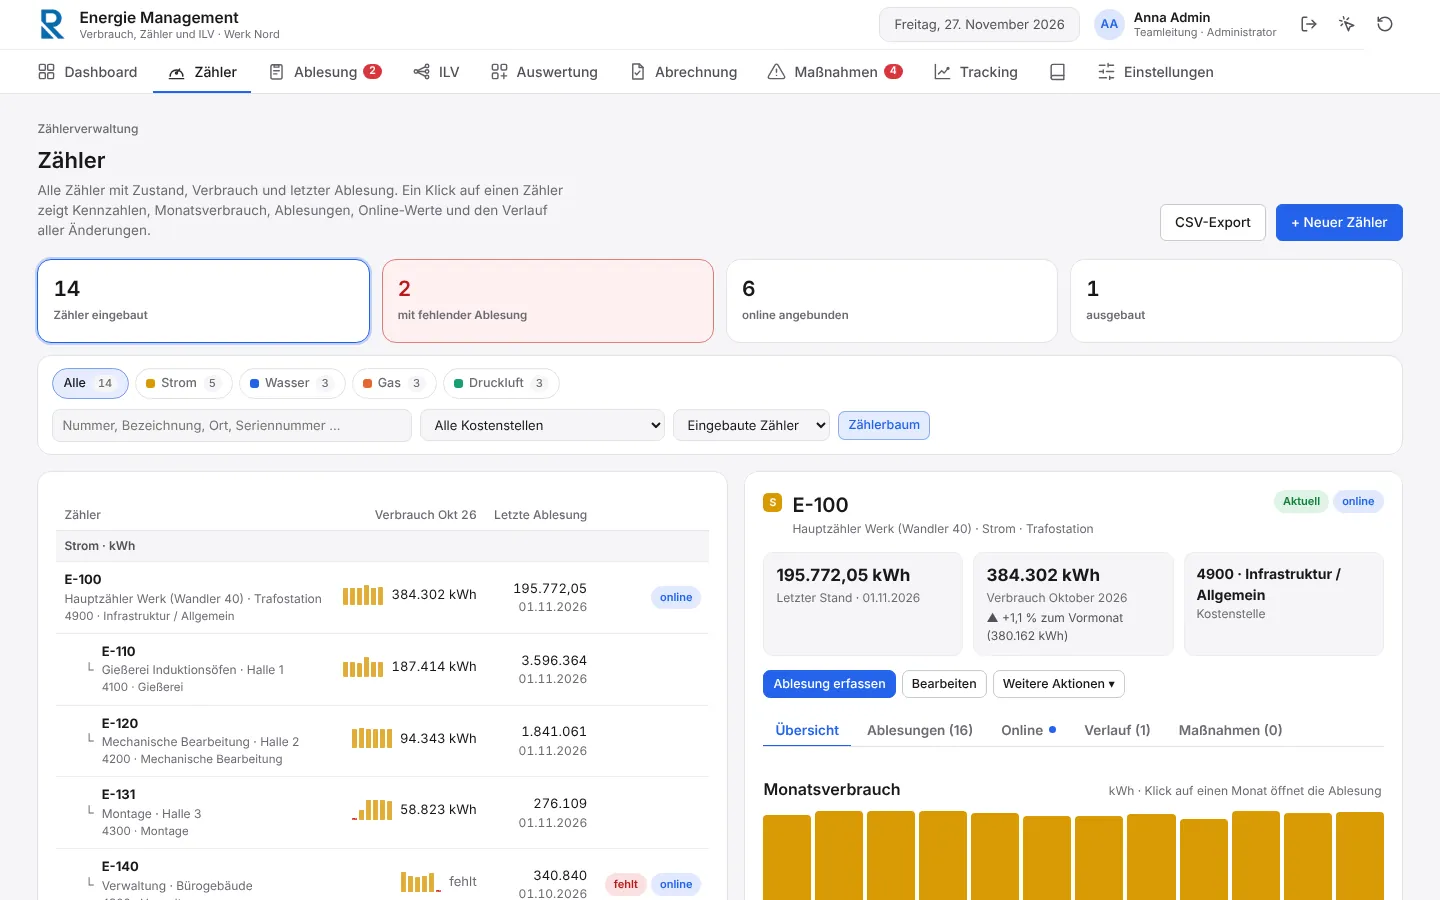
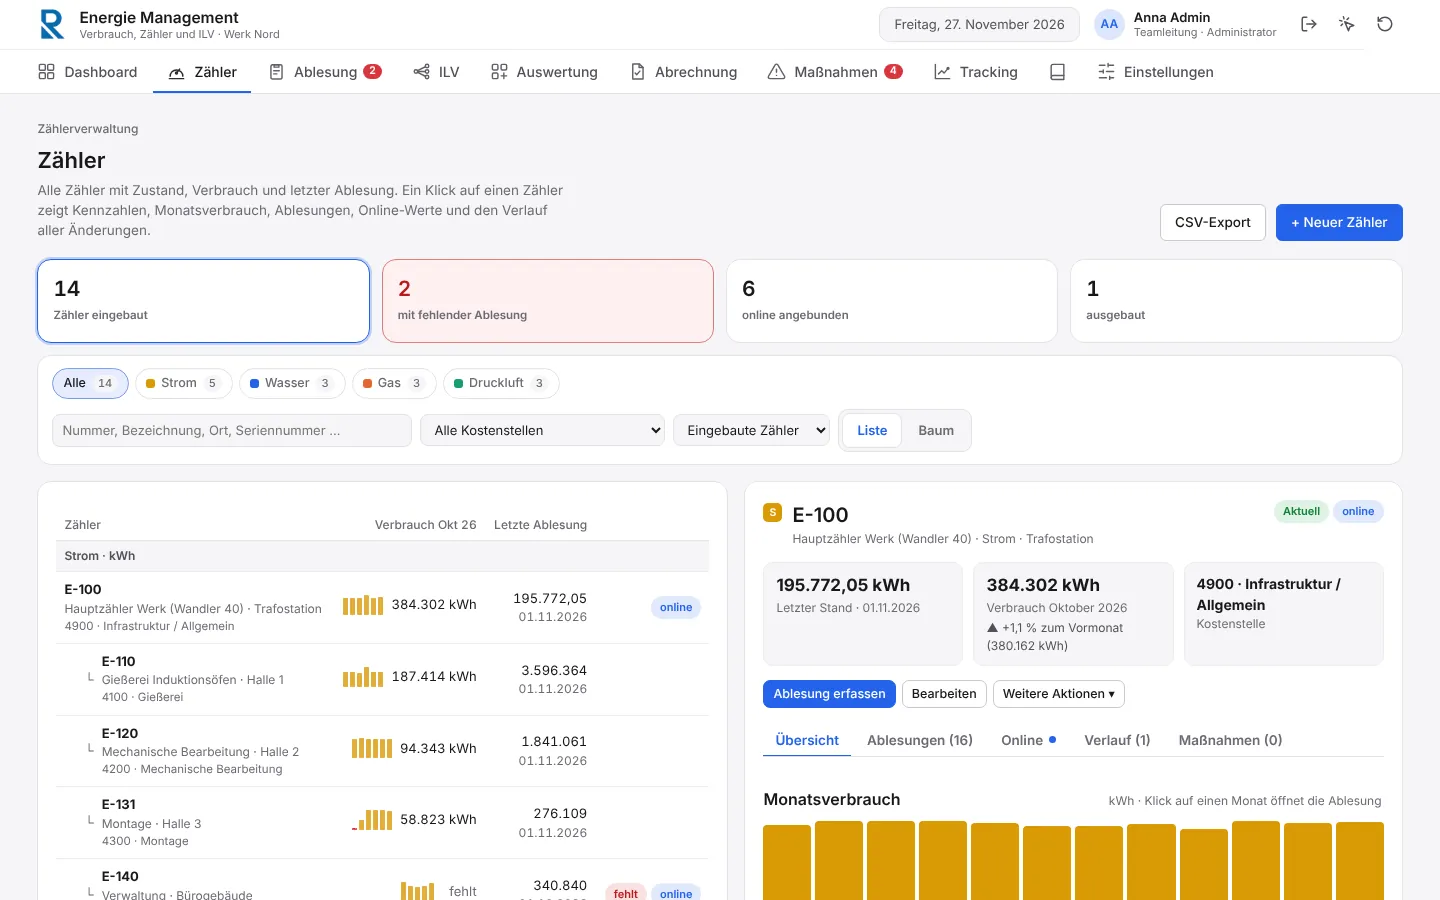
Zählerseite: Darstellung als aufklappbarer Zählerbaum mit Rest, Bearbeiten und „+ Unterzähler“ am Knoten
Claude-Session: https://claude.ai/code/session_01VLWA3jNBDZhyfKfbfyKqi7

diff --git a/frontend/index.html b/frontend/index.html
@@ -2126,6 +2126,43 @@ tr.ci-err td { color: var(--crit-text); }
 .bl-table td:nth-child(2) { white-space: nowrap; }
 @media (max-width: 1000px) { .bl-grid { grid-template-columns: minmax(0, 1fr); } .bl-year { grid-template-columns: repeat(6, minmax(0, 1fr)); } }
 
+/* Zählerbaum */
+.mt-tree-bar { display: flex; gap: 6px; align-items: center; flex-wrap: wrap; margin-bottom: 8px; }
+.mt-tree-bar .mini-hint { margin-left: auto; }
+.mt-tree, .mt-tree ul { list-style: none; margin: 0; padding: 0; }
+.mt-type { margin-bottom: 10px; }
+.mt-type-head { display: flex; align-items: center; gap: 8px; width: 100%; background: var(--surface-2); border: 0; border-radius: 9px; padding: 7px 10px; font: inherit; color: var(--ink); cursor: pointer; text-align: left; }
+.mt-type-head .mini-hint { margin-left: auto; }
+.mt-toggle-txt { width: 14px; color: var(--muted); }
+.mt-children { position: relative; padding-left: 22px !important; }
+.mt-roots { padding-left: 10px !important; margin-top: 6px !important; }
+.mt-children > li { position: relative; }
+/* Verbindungslinien: senkrecht am Ast, waagrecht zum Knoten */
+.mt-children > li::before { content: ""; position: absolute; left: -12px; top: 0; bottom: 0; border-left: 1.5px solid var(--line); }
+.mt-children > li:last-child::before { bottom: auto; height: 22px; }
+.mt-children > li::after { content: ""; position: absolute; left: -12px; top: 22px; width: 12px; border-top: 1.5px solid var(--line); }
+.mt-roots > li::before, .mt-roots > li::after { display: none; }
+.mt-row { display: flex; align-items: center; gap: 6px; padding: 3px 0; }
+.mt-toggle { width: 24px; height: 24px; flex: none; border: 1px solid var(--line); border-radius: 6px; background: var(--surface); color: var(--ink-2); font-size: 11px; cursor: pointer; display: grid; place-items: center; padding: 0; }
+.mt-toggle.leaf { border-color: transparent; background: none; cursor: default; }
+.mt-toggle.leaf::after { content: ""; width: 6px; height: 6px; border-radius: 50%; background: var(--line); }
+.mt-card { flex: 1; min-width: 0; display: flex; align-items: center; gap: 10px; border: 1px solid var(--line-soft); border-radius: 10px; padding: 7px 10px; background: var(--surface); cursor: pointer; }
+.mt-card:hover { border-color: color-mix(in srgb, var(--accent) 45%, var(--line)); }
+.mt-card:focus-visible { outline: 2px solid var(--accent); outline-offset: 1px; }
+.mt-row.sel .mt-card { border-color: var(--accent); background: color-mix(in srgb, var(--accent) 7%, var(--surface)); }
+.mt-row.ctx .mt-card { opacity: .55; }
+.mt-txt { flex: 1; min-width: 0; }
+.mt-l1 { display: flex; gap: 8px; align-items: baseline; min-width: 0; }
+.mt-l1 b { white-space: nowrap; }
+.mt-txt .me-sub { white-space: nowrap; overflow: hidden; text-overflow: ellipsis; }
+.mt-name { color: var(--ink-2); font-size: 13px; white-space: nowrap; overflow: hidden; text-overflow: ellipsis; }
+.mt-val { text-align: right; white-space: nowrap; flex: none; }
+.mt-qty { font-weight: 600; font-size: 13.5px; }
+.mt-qty.miss { color: var(--crit-text); font-weight: 500; font-size: 12.5px; }
+.mt-acts { display: flex; gap: 4px; flex: none; }
+@media (hover: hover) { .mt-acts { display: none; } .mt-row:hover .mt-acts, .mt-row:focus-within .mt-acts, .mt-row.sel .mt-acts { display: flex; } .mt-row:hover .mt-val .me-sub, .mt-row.sel .mt-val .me-sub { display: none; } }
+@media (max-width: 700px) { .mt-val .me-sub { display: none; } .mt-acts .btn:last-child { display: none; } .mt-children { padding-left: 14px !important; } }
+
 /* Zähler */
 .me-chips .trk-chip:not(.on) > span { text-decoration: none !important; }
 .me-chips .trk-chip:not(.on) .trk-chip-dot { opacity: 1; }
@@ -2348,13 +2385,17 @@ details.wd-group { padding-bottom: 4px; }
         <option value="out">Ausgebaute Zähler</option>
         <option value="">Alle Zähler</option>
       </select>
-      <button class="btn sm" id="mtTreeBtn" aria-pressed="true" title="Unterzähler unter ihrem Hauptzähler einrücken">Zählerbaum</button>
+      <div class="period-seg" id="mtViewSeg" role="radiogroup" aria-label="Darstellung">
+        <button type="button" data-view="list">Liste</button>
+        <button type="button" data-view="tree">Baum</button>
+      </div>
       <button class="btn sm ghost" id="mtReset" type="button" hidden>Filter zurücksetzen</button>
     </div>
   </div>
   <div class="me-layout">
     <div class="card me-list-card">
-      <div class="trk-table-wrap"><table class="trk-table me-table" id="mtTable"></table></div>
+      <div class="trk-table-wrap" id="mtTableWrap"><table class="trk-table me-table" id="mtTable"></table></div>
+      <div class="mt-tree-host" id="mtTreeHost" hidden></div>
       <p class="mini-hint" id="mtCount"></p>
     </div>
     <div class="card me-detail" id="mtDetail"></div>
@@ -7176,6 +7217,15 @@ window.EN = (function () {
     var tbl = $("#mtTable"); tbl.innerHTML = "";
     $("#mtCount").textContent = shown.length + " von " + energy.meters.length + " Zählern" + (mtFlag || mtType || mtCc || terms.length ? " — Filter aktiv" : "");
     $("#mtReset").hidden = !(mtFlag || mtType || mtCc || terms.length || mtState !== "in");
+    document.querySelectorAll("#mtViewSeg button").forEach(function (b) { b.classList.toggle("active", b.dataset.view === mtView); b.setAttribute("aria-checked", b.dataset.view === mtView ? "true" : "false"); });
+    $("#mtTableWrap").hidden = mtView === "tree";
+    $("#mtTreeHost").hidden = mtView !== "tree";
+    if (mtView === "tree") {
+      renderMeterTree($("#mtTreeHost"), shown, !!(terms.length || mtFlag));
+      if (!shown.some(function (m) { return m.id === mtSel; })) mtSel = shown.length ? sortedMeters(shown)[0].id : null;
+      renderMeterDetail();
+      return;
+    }
     if (!rows.length) {
       tbl.appendChild(emptyRow(4, energy.meters.length ? "Kein Zähler passt zu den Filtern." : "Noch keine Zähler angelegt — mit „+ Neuer Zähler“ beginnen."));
     } else {
@@ -7244,13 +7294,6 @@ window.EN = (function () {
   $("#mtSearch").addEventListener("input", function () { mtSearch = this.value; renderMeters(); });
   $("#mtCc").addEventListener("change", function () { mtCc = this.value; renderMeters(); });
   $("#mtState").addEventListener("change", function () { mtState = this.value; mtFlag = ""; renderMeters(); });
-  $("#mtTreeBtn").addEventListener("click", function () {
-    mtTree = !mtTree;
-    this.classList.toggle("toggled", mtTree);
-    this.setAttribute("aria-pressed", mtTree ? "true" : "false");
-    renderMeters();
-  });
-  $("#mtTreeBtn").classList.add("toggled");
   // Menü „Weitere Aktionen“ schließt bei Klick daneben oder mit Esc
   document.addEventListener("click", function (e) {
     document.querySelectorAll(".me-more[open]").forEach(function (d) { if (!d.contains(e.target)) d.open = false; });
@@ -7263,6 +7306,141 @@ window.EN = (function () {
     $("#mtSearch").value = "";
     renderMeters();
   });
+
+  /* ---------- Zählerbaum: Haupt- und Unterzähler als aufklappbare Äste ----------
+     Je Energieart ein Stamm, darunter die Zähler mit Verbindungslinien. Ein Ast zeigt den Verbrauch des fälligen Monats,
+     beim Hauptzähler zusätzlich die Summe der Unterzähler und den Rest (Hauptzähler − Unterzähler = nicht einzeln gemessen).
+     Bearbeiten und „+ Unterzähler“ direkt am Knoten; ein Klick wählt den Zähler für das Detail rechts.
+     Aufgeklappte Äste merkt sich das Gerät (sfm-meter-tree). Bei Suche/Filtern werden die Hauptzähler der Treffer mit
+     angezeigt (blass), damit der Zusammenhang erhalten bleibt. */
+  var mtView = (function () { try { return LS.getItem("sfm-meter-view") === "tree" ? "tree" : "list"; } catch (e) { return "list"; } })();
+  var mtCollapsed = (function () { try { return JSON.parse(LS.getItem("sfm-meter-tree") || "{}") || {}; } catch (e) { return {}; } })();
+  function mtSaveTree() { try { LS.setItem("sfm-meter-tree", JSON.stringify(mtCollapsed)); } catch (e) {} }
+  function mtMonthVal(m) {
+    var x = meterMonthC(m.id, DUE_MONTH);
+    return x.status === "ok" || x.status === "partial" ? x : null;
+  }
+  function renderMeterTree(host, shown, filtered) {
+    host.innerHTML = "";
+    var byId = {}, kids = {};
+    energy.meters.forEach(function (m) { byId[m.id] = m; });
+    // sichtbare Menge: Treffer + deren Hauptzähler (für den Zusammenhang)
+    var vis = {}, hit = {};
+    shown.forEach(function (m) {
+      hit[m.id] = true;
+      for (var p = m, g = 0; p && g < 50; g++) { vis[p.id] = true; p = p.parent ? byId[p.parent] : null; }
+    });
+    Object.keys(vis).forEach(function (id) {
+      var m = byId[id], par = m.parent && vis[m.parent] ? m.parent : "";
+      (kids[par] = kids[par] || []).push(m);
+    });
+    var bar = el("div", "mt-tree-bar");
+    var bOpen = el("button", "btn sm ghost", "Alle aufklappen"), bClose = el("button", "btn sm ghost", "Alle zuklappen");
+    bOpen.type = bClose.type = "button";
+    bOpen.addEventListener("click", function () { mtCollapsed = {}; mtSaveTree(); renderMeters(); });
+    bClose.addEventListener("click", function () { Object.keys(kids).forEach(function (id) { if (id) mtCollapsed[id] = true; }); EN.TYPE_KEYS.forEach(function (t) { mtCollapsed["t:" + t] = true; }); mtSaveTree(); renderMeters(); });
+    bar.appendChild(bOpen); bar.appendChild(bClose);
+    bar.appendChild(el("span", "mini-hint", "Verbrauch " + monthLabel(DUE_MONTH) + " · Rest = Hauptzähler − Unterzähler"));
+    host.appendChild(bar);
+    var roots = kids[""] || [];
+    if (!roots.length) { host.appendChild(el("p", "empty-hint", energy.meters.length ? "Kein Zähler passt zu den Filtern." : "Noch keine Zähler angelegt — mit „+ Neuer Zähler“ beginnen.")); return; }
+    var tree = el("ul", "mt-tree");
+    tree.setAttribute("role", "tree");
+    var node = function (m, depth) {
+      var li = el("li", "mt-node"), ch = sortedMeters(kids[m.id] || []);
+      var open = !mtCollapsed[m.id] || filtered;
+      li.setAttribute("role", "treeitem");
+      if (ch.length) li.setAttribute("aria-expanded", open ? "true" : "false");
+      var row = el("div", "mt-row" + (m.id === mtSel ? " sel" : "") + (m.removed ? " me-removed" : "") + (hit[m.id] ? "" : " ctx"));
+      var tg = el("button", "mt-toggle" + (ch.length ? "" : " leaf"), ch.length ? (open ? "▾" : "▸") : "");
+      tg.type = "button";
+      if (ch.length) {
+        tg.setAttribute("aria-label", (open ? "Zuklappen: " : "Aufklappen: ") + m.no + " (" + ch.length + " Unterzähler)");
+        tg.addEventListener("click", function (e) { e.stopPropagation(); if (open) mtCollapsed[m.id] = true; else delete mtCollapsed[m.id]; mtSaveTree(); renderMeters(); });
+      } else { tg.tabIndex = -1; tg.setAttribute("aria-hidden", "true"); }
+      row.appendChild(tg);
+      var card = el("div", "mt-card");
+      card.tabIndex = 0;
+      card.appendChild(typeChip(m.type));
+      var tx = el("div", "mt-txt");
+      var l1 = el("div", "mt-l1"); l1.appendChild(el("b", null, m.no)); l1.appendChild(el("span", "mt-name", m.name));
+      tx.appendChild(l1);
+      tx.appendChild(el("div", "me-sub", [m.costCenter ? ccLabel(m.costCenter) : "keine Kostenstelle", m.location].filter(Boolean).join(" · ")));
+      card.appendChild(tx);
+      var val = el("div", "mt-val"), v = mtMonthVal(m), unit = billUnit(m.type);
+      if (m.removed) val.appendChild(el("span", "pill neutral", "ausgebaut"));
+      else {
+        val.appendChild(el("div", "mt-qty" + (v ? "" : " miss"), v ? fmtQty(v.energy, unit) : "Ablesung fehlt"));
+        if (ch.length && v) {
+          var sum = 0, ok = true;
+          ch.forEach(function (k) { if (k.removed) return; var kv = mtMonthVal(k); if (!kv) ok = false; else sum += kv.energy; });
+          var rest = EN.round(v.energy - sum);
+          val.appendChild(el("div", "me-sub", ok ? "Unterzähler " + fmtQty(EN.round(sum), unit) + " · Rest " + fmtQty(rest, unit) : "Unterzähler unvollständig"));
+          if (ok && rest < 0) val.lastChild.classList.add("crit-text");
+        }
+      }
+      card.appendChild(val);
+      var badges = el("div", "me-badges");
+      if (!m.removed && meterMissing(m)) badges.appendChild(el("span", "pill crit", "fehlt"));
+      if (meterOnline(m)) badges.appendChild(el("span", "pill onl-pill", "online"));
+      if (ch.length && !open) badges.appendChild(el("span", "pill neutral", "+" + ch.length));
+      card.appendChild(badges);
+      var select = function () { mtSel = m.id; renderMeters(); if (window.matchMedia && window.matchMedia("(max-width: 1150px)").matches) $("#mtDetail").scrollIntoView({ behavior: "smooth", block: "start" }); };
+      card.addEventListener("click", select);
+      card.addEventListener("keydown", function (e) {
+        if (e.key === "Enter") select();
+        else if (e.key === "ArrowRight" && ch.length && !open) { delete mtCollapsed[m.id]; mtSaveTree(); renderMeters(); }
+        else if (e.key === "ArrowLeft" && ch.length && open) { mtCollapsed[m.id] = true; mtSaveTree(); renderMeters(); }
+      });
+      row.appendChild(card);
+      if (can("edit")) {
+        var acts = el("div", "mt-acts");
+        var be = el("button", "btn sm", "✎"); be.type = "button"; be.title = "Zähler " + m.no + " bearbeiten"; be.setAttribute("aria-label", be.title);
+        be.addEventListener("click", function (e) { e.stopPropagation(); openMeterDialog(m); });
+        acts.appendChild(be);
+        if (!m.removed) {
+          var bn = el("button", "btn sm", "+ Unterzähler"); bn.type = "button"; bn.title = "Neuen Unterzähler unter " + m.no + " anlegen";
+          bn.addEventListener("click", function (e) { e.stopPropagation(); openMeterDialog(null, { parent: m.id, type: m.type, costCenter: m.costCenter || "" }); });
+          acts.appendChild(bn);
+        }
+        card.appendChild(acts);
+      }
+      li.appendChild(row);
+      if (ch.length && open) {
+        var ul = el("ul", "mt-children"); ul.setAttribute("role", "group");
+        ch.forEach(function (k) { ul.appendChild(node(k, depth + 1)); });
+        li.appendChild(ul);
+      }
+      return li;
+    };
+    EN.TYPES.forEach(function (t) {
+      var rs = sortedMeters(roots.filter(function (m) { return m.type === t.key; }));
+      if (!rs.length) return;
+      var key = "t:" + t.key, open = !mtCollapsed[key] || filtered;
+      var li = el("li", "mt-type"); li.setAttribute("role", "treeitem"); li.setAttribute("aria-expanded", open ? "true" : "false");
+      var head = el("button", "mt-type-head"); head.type = "button";
+      head.appendChild(el("span", "mt-toggle-txt", open ? "▾" : "▸"));
+      var dot = el("span", "en-dot"); dot.style.background = t.color; head.appendChild(dot);
+      head.appendChild(el("b", null, t.label));
+      var n = Object.keys(vis).filter(function (id) { return byId[id].type === t.key; }).length;
+      head.appendChild(el("span", "mini-hint", n + (n === 1 ? " Zähler" : " Zähler") + " · " + meterUnit(t.key)));
+      head.addEventListener("click", function () { if (open) mtCollapsed[key] = true; else delete mtCollapsed[key]; mtSaveTree(); renderMeters(); });
+      li.appendChild(head);
+      if (open) {
+        var ul = el("ul", "mt-children mt-roots"); ul.setAttribute("role", "group");
+        rs.forEach(function (m) { ul.appendChild(node(m, 0)); });
+        li.appendChild(ul);
+      }
+      tree.appendChild(li);
+    });
+    host.appendChild(tree);
+  }
+  function setMeterView(v) {
+    mtView = v;
+    try { LS.setItem("sfm-meter-view", v); } catch (e) {}
+    renderMeters();
+  }
+  document.querySelectorAll("#mtViewSeg button").forEach(function (b) { b.addEventListener("click", function () { setMeterView(b.dataset.view); }); });
 
   function infoGrid(pairs) {
     var g = el("dl", "me-info");
@@ -7518,16 +7696,20 @@ window.EN = (function () {
 
   /* ---------- Zähler anlegen / bearbeiten ---------- */
   var mdDlg = $("#meterDialog"), mdEditing = null;
+  var mdPreset = null;
   function mdParentOptions() {
-    fillSelect($("#mdParent"), meterOptions($("#mdType").value, "Kein übergeordneter Zähler (Hauptzähler)", mdEditing ? mdEditing.id : null), mdEditing ? mdEditing.parent || "" : "");
+    fillSelect($("#mdParent"), meterOptions($("#mdType").value, "Kein übergeordneter Zähler (Hauptzähler)", mdEditing ? mdEditing.id : null), mdEditing ? mdEditing.parent || "" : mdPreset && mdPreset.type === $("#mdType").value ? mdPreset.parent || "" : "");
   }
-  function openMeterDialog(m) {
+  // preset (nur neuer Zähler): { parent, type, costCenter } — z. B. „+ Unterzähler“ im Zählerbaum
+  function openMeterDialog(m, preset) {
     mdEditing = m || null;
+    mdPreset = m ? null : preset || null;
     showErr("mdError", null);
-    $("#mdTitle").textContent = m ? "Zähler bearbeiten" : "Neuer Zähler";
-    fillSelect($("#mdType"), typeOptions(), m ? m.type : (mtType || "strom"));
+    var pm = mdPreset && mdPreset.parent ? EN.meterById(energy, mdPreset.parent) : null;
+    $("#mdTitle").textContent = m ? "Zähler bearbeiten" : pm ? "Neuer Unterzähler von " + pm.no : "Neuer Zähler";
+    fillSelect($("#mdType"), typeOptions(), m ? m.type : mdPreset && mdPreset.type ? mdPreset.type : (mtType || "strom"));
     $("#mdType").disabled = !!m;
-    fillSelect($("#mdCc"), ccOptions("Keine Kostenstelle", true, m ? m.costCenter : null), m ? m.costCenter || "" : (mtCc || ""));
+    fillSelect($("#mdCc"), ccOptions("Keine Kostenstelle", true, m ? m.costCenter : null), m ? m.costCenter || "" : mdPreset && mdPreset.costCenter != null ? mdPreset.costCenter : (mtCc || ""));
     mdParentOptions();
     $("#mdNo").value = m ? m.no : "";
     $("#mdName").value = m ? m.name : "";
@@ -7619,7 +7801,7 @@ window.EN = (function () {
         doc.readings.push({ id: EN.nextId(doc, "a"), meter: nm.id, kind: "install", date: inst, month: EN.billingMonth(inst, settings.cutoffDay),
           value: iv, rollover: false, zeroStart: false, note: "Einbau", by: w.by, at: w.at, edits: [], deleted: null });
         if (auto) EN.autoRulesForMeter(doc, nm, from, w);
-        if (doc === energy) mtSel = nm.id;
+        if (doc === energy) { mtSel = nm.id; for (var pp = nm.parent; pp; pp = (EN.meterById(doc, pp) || {}).parent) delete mtCollapsed[pp]; delete mtCollapsed["t:" + nm.type]; }
       },
       done: function () { mdDlg.close(); }
     });
@@ -7758,7 +7940,7 @@ window.EN = (function () {
           var w = who();
           if (cgWithNew) {
             var nm = EN.changeMeter(doc, id, o, w);
-            if (doc === energy) mtSel = nm.id;
+            if (doc === energy) { mtSel = nm.id; for (var pp = nm.parent; pp; pp = (EN.meterById(doc, pp) || {}).parent) delete mtCollapsed[pp]; delete mtCollapsed["t:" + nm.type]; }
           } else {
             var x = EN.meterById(doc, id);
             x.removed = rd;
@@ -12390,9 +12572,10 @@ window.EN = (function () {
     { id: "zaehler", group: "Zähler & Ablesung", title: "Zähler anlegen und pflegen",
       intro: "Jeder Zähler wird einzeln verwaltet. Unter „Zähler“ stehen alle Zähler als Liste oder als Zählerbaum (Unterzähler eingerückt unter ihrem Hauptzähler); rechts die Details des gewählten Zählers.",
       sections: [
-        { h: "Die Zählerseite im Überblick", list: [
+        { h: "Die Zählerseite im Überblick", img: "zaehlerbaum", cap: "Darstellung „Baum“: Haupt- und Unterzähler mit Rest", list: [
           "<b>Kacheln oben</b> — eingebaute Zähler, Zähler mit fehlender Ablesung, online angebundene und ausgebaute Zähler. Ein Klick auf eine Kachel zeigt nur diese Zähler.",
-          "<b>Energiearten</b> — die Schalter Alle / Strom / Wasser / Gas / Druckluft zeigen nur Zähler dieser Art; dazu Suche, Kostenstelle und „Zählerbaum“. „Filter zurücksetzen“ zeigt wieder alle eingebauten Zähler.",
+          "<b>Energiearten</b> — die Schalter Alle / Strom / Wasser / Gas / Druckluft zeigen nur Zähler dieser Art; dazu Suche, Kostenstelle und die Darstellung „Liste“ oder „Baum“. „Filter zurücksetzen“ zeigt wieder alle eingebauten Zähler.",
+          "<b>Baum</b> — Haupt- und Unterzähler als Äste je Energieart, mit Verbindungslinien. Mit ▸/▾ (oder Pfeiltaste links/rechts) Äste auf- und zuklappen, „Alle aufklappen/zuklappen“ für alles. Am Hauptzähler steht der Verbrauch der Unterzähler und der Rest (Hauptzähler − Unterzähler = nicht einzeln gemessen; negativ = Zuordnung prüfen). Beim Darüberfahren: ✎ bearbeiten und „+ Unterzähler“ (legt einen Zähler mit diesem Hauptzähler, Energieart und Kostenstelle an). Bei Suche oder Filter erscheinen die Hauptzähler der Treffer blass mit. Das Gerät merkt sich Darstellung und aufgeklappte Äste.",
           "<b>Liste</b> — je Zähler Nummer, Bezeichnung, Ort und Kostenstelle, der Verbrauch im fälligen Monat mit kleinem Verlauf der letzten 6 Monate (rot gepunktet = Ablesung fehlt), der letzte Stand und die Kennzeichen „fehlt“, „online“ oder „ausgebaut“.",
           "<b>Detail</b> — oben letzter Stand, Verbrauch mit Vormonatsvergleich und Kostenstelle; darunter „Ablesung erfassen“, „Bearbeiten“ und unter „Weitere Aktionen“ Messfaktor / Überlauf, Zählerwechsel, Ausbauen und Maßnahme anlegen."
         ] },

diff --git a/tools/doku-screenshots.js b/tools/doku-screenshots.js
@@ -34,6 +34,8 @@ const W = 1440, H = 900;
   await p.click('#dashEditDone'); await p.evaluate(() => scrollTo(0, 0));
   // Zähler
   await p.click('.tab[data-view="meters"]'); await wait(700); await shot('zaehler');
+  await p.click('#mtViewSeg [data-view="tree"]'); await wait(500); await shot('zaehlerbaum');
+  await p.click('#mtViewSeg [data-view="list"]'); await wait(400);
   await p.click('.me-more summary'); await p.click('.me-more-menu >> text=Zählerwechsel'); await wait(400); await shot('zaehlerwechsel', { clip: await box('dialog[open]', 28) });
   await p.keyboard.press('Escape'); await wait(200);
   // Ablesung mit Prüfliste (W-220: Stand kleiner als vorher)

diff --git a/CLAUDE.md b/CLAUDE.md
@@ -114,7 +114,9 @@ Drei Skriptblöcke: `SFM` (Speicher/Abgleich), `EN` (Rechenkern, reine Funktione
   Ablesung (`rdLoadOnline`, `rdSuggestion`, `#rdOnlineBtn`, Bemerkung „Online-Wert“). Lokal nur Simulator: Verbindungen in
   `sfm-connections-v1`, Werte aus den Ablesungen nachgebildet (`onlLocalValue`). Beim Zählerwechsel geht `source` mit.
 - **Zählerseite** (`renderMeters`/`renderMeterDetail`): Statuskacheln `#mtStats` (Filter `mtFlag` missing/online + `mtState`),
-  Energieart-Schalter `#mtTypeChips` (`mtType`), Liste gruppiert je Energieart; Detail mit Kennzahlen, Menü `.me-more`
+  Energieart-Schalter `#mtTypeChips` (`mtType`), Darstellung `#mtViewSeg` Liste/Baum (`mtView`, gemerkt in `sfm-meter-view`;
+  Baum `renderMeterTree` mit `mtCollapsed` in `sfm-meter-tree`, Knoten-Aktionen ✎ und „+ Unterzähler“ =
+  `openMeterDialog(null, {parent, type, costCenter})`), Liste gruppiert je Energieart; Detail mit Kennzahlen, Menü `.me-more`
   („Weitere Aktionen“) und Reitern `mtTab` (over/read/onl/hist/dev). Passt der gewählte Zähler nicht zu den Filtern, wird der
   erste der Liste gewählt; `meterLink` setzt die Filter zurück. `meterHay`, `flagText`, `lastReading`, `meterStatus` nutzt auch die Ablesung.
 - **Kopfzeile:** Speicherstatus nur bei Problemen; Datum → Ablesung des fälligen Monats; Zähler am Reiter „Ablesung“

diff --git a/CHANGELOG.md b/CHANGELOG.md
@@ -84,6 +84,10 @@ Dashboards, Maßnahmen, Sicherungen, SMB-Kopie, Checkmk und Installer übernomme
   Probe an sich selbst, jederzeit ab- und wieder einschaltbar.
 - **Diagramme** im Dashboard wahlweise als Balken und je Quartal oder Jahr zusammengefasst.
 
+- **Zählerbaum:** neue Darstellung „Baum“ auf der Zählerseite — Haupt- und Unterzähler als auf- und zuklappbare Äste
+  je Energieart mit Verbindungslinien, Verbrauch und Rest (Hauptzähler − Unterzähler); Zähler direkt am Knoten
+  bearbeiten oder einen Unterzähler anlegen.
+
 ### Geändert
 - Der Reiter „Anwenderdoku“ zeigt nur noch das Symbol (Name beim Darüberfahren), damit alle Reiter mit Namen in die Leiste passen.
 - „Alle Energiedaten löschen“ entfernt auch die Abrechnungen und ist dann nur noch für Administratoren möglich.
